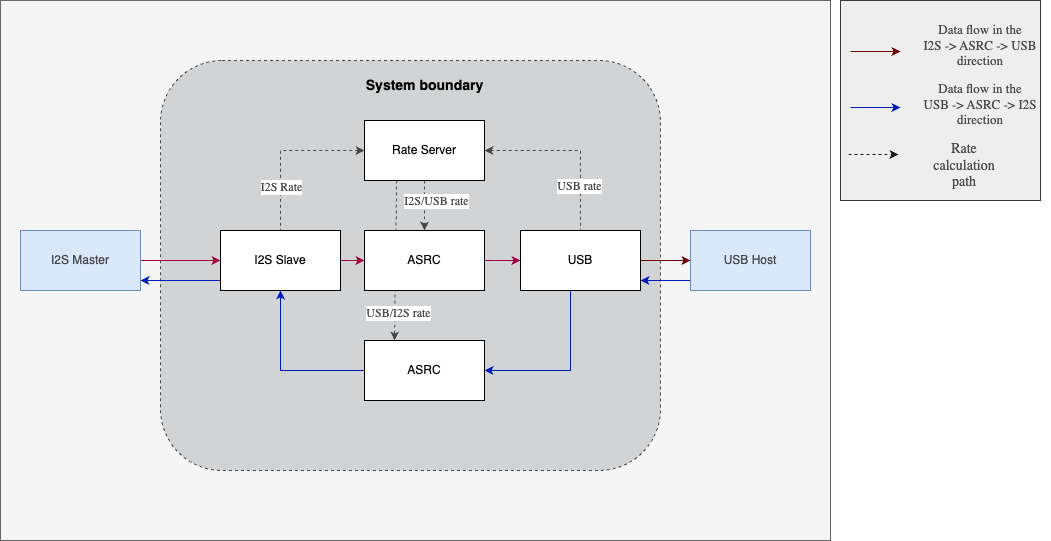
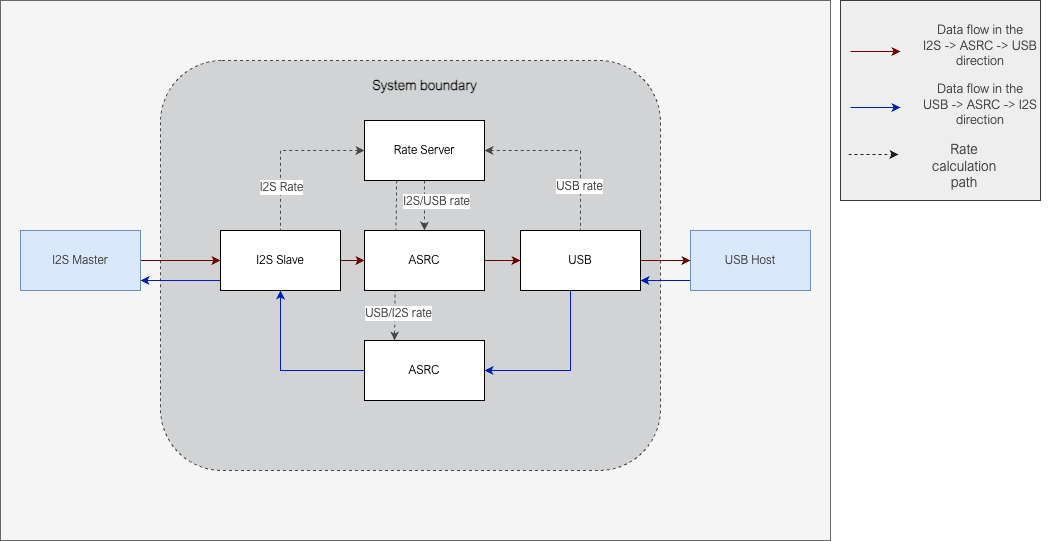
More review comments. Change font in diagrams

diff --git a/doc/programming_guide/asrc/software_architecture.rst b/doc/programming_guide/asrc/software_architecture.rst
@@ -3,7 +3,7 @@
 Software Architecture
 *********************
 
-The ASRC demo application is a two tile application developed to run on the L71 board running at a core frequency of 600 MHz.
+The ASRC demo application is a two tile application developed to run on the XK-VOICE-L71 board running at a core frequency of 600 MHz.
 
 It is a FreeRTOS based application where all the application blocks are implemented as FreeRTOS tasks.
 
@@ -27,7 +27,7 @@ The :ref:`fig-ASRC-task-diagram-label` shows the RTOS tasks and other components
 
 
 The tasks can roughly be categorised as belonging to the USB driver, |I2S| driver or the application code categories.
-The actual ASRC processing happens in four tasks across the two tiles; the **usb_audio_out_asrc task**, **i2s_audio_recv_asrc** task, and 2 instances of **asrc_one_channel_task**, one on each tile.
+The actual ASRC processing happens in four tasks across the two tiles; the **usb_audio_out_asrc task**, **i2s_audio_recv_asrc** task, and two instances of **asrc_one_channel_task**, one on each tile.
 This is described in more detail in the :ref:`application-components-label` section below.
 
 Most of the tasks are involved in the ASRC processing data path, while a few are involved in monitoring the input and output data rates
@@ -38,7 +38,7 @@ USB Driver components
 =====================
 
 This application presents a stereo, 48 kHz, 32 bit, high-speed, Adaptive UAC2.0 USB interface.
-It has 2 endpoints, Endpoint 0 for control and Endpoint 1 for bidirectional isochronous USB audio.
+It has two endpoints, Endpoint 0 for control and Endpoint 1 for bidirectional isochronous USB audio.
 The USB application level driver is `TinyUSB <https://docs.tinyusb.org/en/latest/>`_ based.
 
 The **usb_xud_thread**, **usb_isr**, **usb_task** and **usb_adaptive_clk_manager** implement the USB driver.
@@ -53,9 +53,9 @@ It interfaces with the USB app level thread (**usb_task**) via shared memory and
 
 **usb_task** implements the app level USB driver functionality. The app level USB driver is based on `TinyUSB <https://docs.tinyusb.org/en/latest/>`_ which hooks into the application by means of callback functions.
 The **usb_isr** task is triggered by the interrupt and parses the data transferred from XUD and places it on a queue that the **usb_task** blocks on for further processing.
-For example, on completion of an EP1 OUT transfer, the transfer completion gets notified on the **usb_xud_thread → usb_isr → usb_task** path
-and the **usb_task** calls the ``tud_audio_rx_done_post_read_cb()`` to have the application process the data received from the host.
-On completion of an EP1 IN transfer the transfer completion again follows the **usb_xud_thread → usb_isr → usb_task** path and **usb_task** calls the ``tud_audio_tx_done_pre_load_cb()``
+For example, on completion of an EP1 OUT transfer, the transfer completion gets notified on the **usb_xud_thread → usb_isr → usb_task** path,
+and the **usb_task** calls the ``tud_audio_rx_done_post_read_cb()`` function to have the application process the data received from the host.
+On completion of an EP1 IN transfer, the transfer completion again follows the **usb_xud_thread → usb_isr → usb_task** path, and **usb_task** calls the ``tud_audio_tx_done_pre_load_cb()``
 callback function to have the application load the EP1 IN data for the next transfer.
 
 **samples_to_host_stream_buf** and **samples_from_host_stream_buf** are circular buffers shared between the application and the USB driver and allow for decoupling one from the other.
@@ -97,11 +97,11 @@ Application components
 
 **usb_audio_out_asrc**, **i2s_audio_recv_asrc**, **asrc_one_channel_task**, **usb_to_i2s_intertile**, **i2s_to_usb_intertile** and the **rate_server** tasks make up the non-driver components of the application.
 
-**usb_audio_out_asrc** performs ASRC on data received from the USB host to the device. It waits to get notified by the TinyUSB callback function ``tud_audio_rx_done_post_read_cb()`` when there are one or more ASRC input blocks (96 USB samples) of data in the samples_from_host_stream_buf.
-It does ASRC processing of the first channel while coordinating with the asrc_one_channel_task for processing the second channel in parallel and sends the processed output to the other tile on the inter-tile context.
+**usb_audio_out_asrc** performs ASRC on data received from the USB host to the device. It waits to get notified by the TinyUSB callback function ``tud_audio_rx_done_post_read_cb()`` when there are one or more ASRC input blocks (96 USB samples) of data in the ``samples_from_host_stream_buf``.
+It does ASRC processing of the first channel while coordinating with the **asrc_one_channel_task** for processing the second channel in parallel and sends the processed output to the other tile on the inter-tile context.
 
-**i2s_audio_recv_asrc** performs ASRC on data received from the |I2S| Slave to the device. It blocks on the ``rtos_i2s_rx()`` function to receive one ASRC input block (244 |I2S| samples) of data from |I2S| and performs ASRC on one channel
-while coordinating with the asrc_one_channel_task for processing the second channel in parallel. It then sends the processed output to the other tile on the inter-tile context.
+**i2s_audio_recv_asrc** performs ASRC on data received over the |I2S| interface by the device. It blocks on the ``rtos_i2s_rx()`` function to receive one ASRC input block (244 |I2S| samples) of data from |I2S| and performs ASRC on one channel
+while coordinating with the **asrc_one_channel_task** for processing the second channel in parallel. It then sends the processed output to the other tile on the inter-tile context.
 
 **asrc_one_channel_task** performs ASRC on a single channel of data. There is one of these on each tile. It waits on an RTOS message queue for an ASRC input block to be available, does ASRC processing on the block and posts the completion notification on another message queue.
 
@@ -111,7 +111,7 @@ It has other rate-monitoring related responsibilities that are described in the 
 **i2s_to_usb_intertile** task receives the ASRC output data generated by **i2s_audio_recv_asrc** over the inter-tile context onto the USB tile and writes it to the USB ``samples_to_host_stream_buf``.
 It has other rate-monitoring related responsibilities that are described in the :ref:`rate-server-label` section.
 
-The :ref:`asrc_i2s_to_usb_data_path-label` diagram shows the application tasks involved in the **|I2S| → ASRC → USB** path processing and their interaction with each other.
+The :ref:`asrc_i2s_to_usb_data_path-label` diagram shows the application tasks involved in the |I2S| → ASRC → USB path processing and their interaction with each other.
 
 .. _asrc_i2s_to_usb_data_path-label:
 
@@ -138,9 +138,9 @@ The :ref:`asrc_usb_to_i2s_data_path-label` diagram shows the application tasks i
 
 **rate_server**
 ---------------
-The ASRC ``process_frame`` API requires the caller to calculate and send the instantaneous ratio between the ASRC input and output rate. The rate_server is responsible for calculating these rate ratios for both USB → ASRC → |I2S| and |I2S| → ASRC → USB directions.
+The ASRC ``process_frame`` API requires the caller to calculate and send the instantaneous ratio between the ASRC input and output rate. The **rate_server** is responsible for calculating these rate ratios for both USB → ASRC → |I2S| and |I2S| → ASRC → USB directions.
 
-Additionally, the application also monitors the average buffer fill levels of the buffers holding ASRC output to prevent any overflows or underflows of the respective buffer. A gradual drift in the buffer fill level indicates that the rate ratio is being under or over calculated by the rate_server.
+Additionally, the application also monitors the average buffer fill levels of the buffers holding ASRC output to prevent any overflows or underflows of the respective buffer. A gradual drift in the buffer fill level indicates that the rate ratio is being under or over calculated by the **rate_server**.
 This could happen either due to jitter in the actual rates or precision limitations when calculating the rates.
 
 The average fill level of the buffer is monitored and a closed-loop error correction factor is calculated to keep the buffer level at an expected stable level.
@@ -189,7 +189,7 @@ The :ref:`fig-rate-server-label` diagram shows the code flow during the rate rat
 .. figure:: diagrams/rate_server_connections.drawio.png
    :align: center
    :scale: 80 %
-   :alt: rate_server code flow
+   :alt: **rate_server** code flow
 
    Rate calculation code flow
 
@@ -219,6 +219,6 @@ Handling USB mic interface close -> open events
 ===============================================
 
 If the USB host stops streaming from the device and then starts again, this event is detected through calls to the ``tud_audio_set_itf_close_EP_cb`` and ``tud_audio_set_itf_cb`` functions.
-The ASRC output buffer in the |I2S| → ASRC → USB is reset (USB ``samples_to_host_streaming_buf``).
+The ASRC output buffer in the |I2S| → ASRC → USB is reset (USB ``samples_to_host_stream_buf``).
 Zeroes are streamed to the host until the buffer fills to a stable level, when we resume streaming out of this buffer to send samples over USB.
-The average buffer calculation state for the USB samples_to_host_streaming_buf is also reset and a new stable average is calculated against which the average buffer levels are corrected.
+The average buffer calculation state for the USB ``samples_to_host_stream_buf`` is also reset and a new stable average is calculated against which the average buffer levels are corrected.

diff --git a/doc/programming_guide/asrc/resource_usage.rst b/doc/programming_guide/asrc/resource_usage.rst
@@ -87,11 +87,13 @@ CPU
 ===
 
 Profiling the CPU usage for this application using an RTOS friendly profiling tool is still TBD.
-However, we have profiled some application tasks as well as gathered some already existing profiling numbers for the drivers and listed them in the table below.
+However, profiling some application tasks has taken place. These numbers along with some already existing profiling numbers for the drivers are listed in the :ref:`table-mips-tile0-label` and :ref:`table-mips-tile1-label` tables.
 Each tile has 5 bare-metal cores being used for running RTOS tasks so each core has a fixed bandwidth of 120 MHz available.
 
 Tile 0
 ------
+
+.. _table-mips-tile0-label:
 
 .. list-table:: Tile 0 tasks MIPS
    :widths: 50 50
@@ -110,9 +112,10 @@ Tile 0
      - 14
 
 
-
 Tile 1
 ------
+
+.. _table-mips-tile1-label:
 
 .. list-table:: Tile 1 tasks MIPS
    :widths: 50 50

diff --git a/doc/programming_guide/asrc/overview.rst b/doc/programming_guide/asrc/overview.rst
@@ -110,7 +110,7 @@ Windows
 It is highly recommended to use ``Ninja`` as the make system under
 ``cmake``. Not only is it a lot faster than MSVC ``nmake``, it also
 works around an issue where certain path names may cause an issue with
-the XMOS compiler under windows.
+the XMOS compiler under Windows.
 
 To install Ninja, follow these steps:
 

diff --git a/examples/asrc_demo/README.rst b/examples/asrc_demo/README.rst
@@ -95,7 +95,7 @@ Windows
 It is highly recommended to use ``Ninja`` as the make system under
 ``cmake``. Not only is it a lot faster than MSVC ``nmake``, it also
 works around an issue where certain path names may cause an issue with
-the XMOS compiler under windows.
+the XMOS compiler under Windows.
 
 To install Ninja, follow these steps:
 
